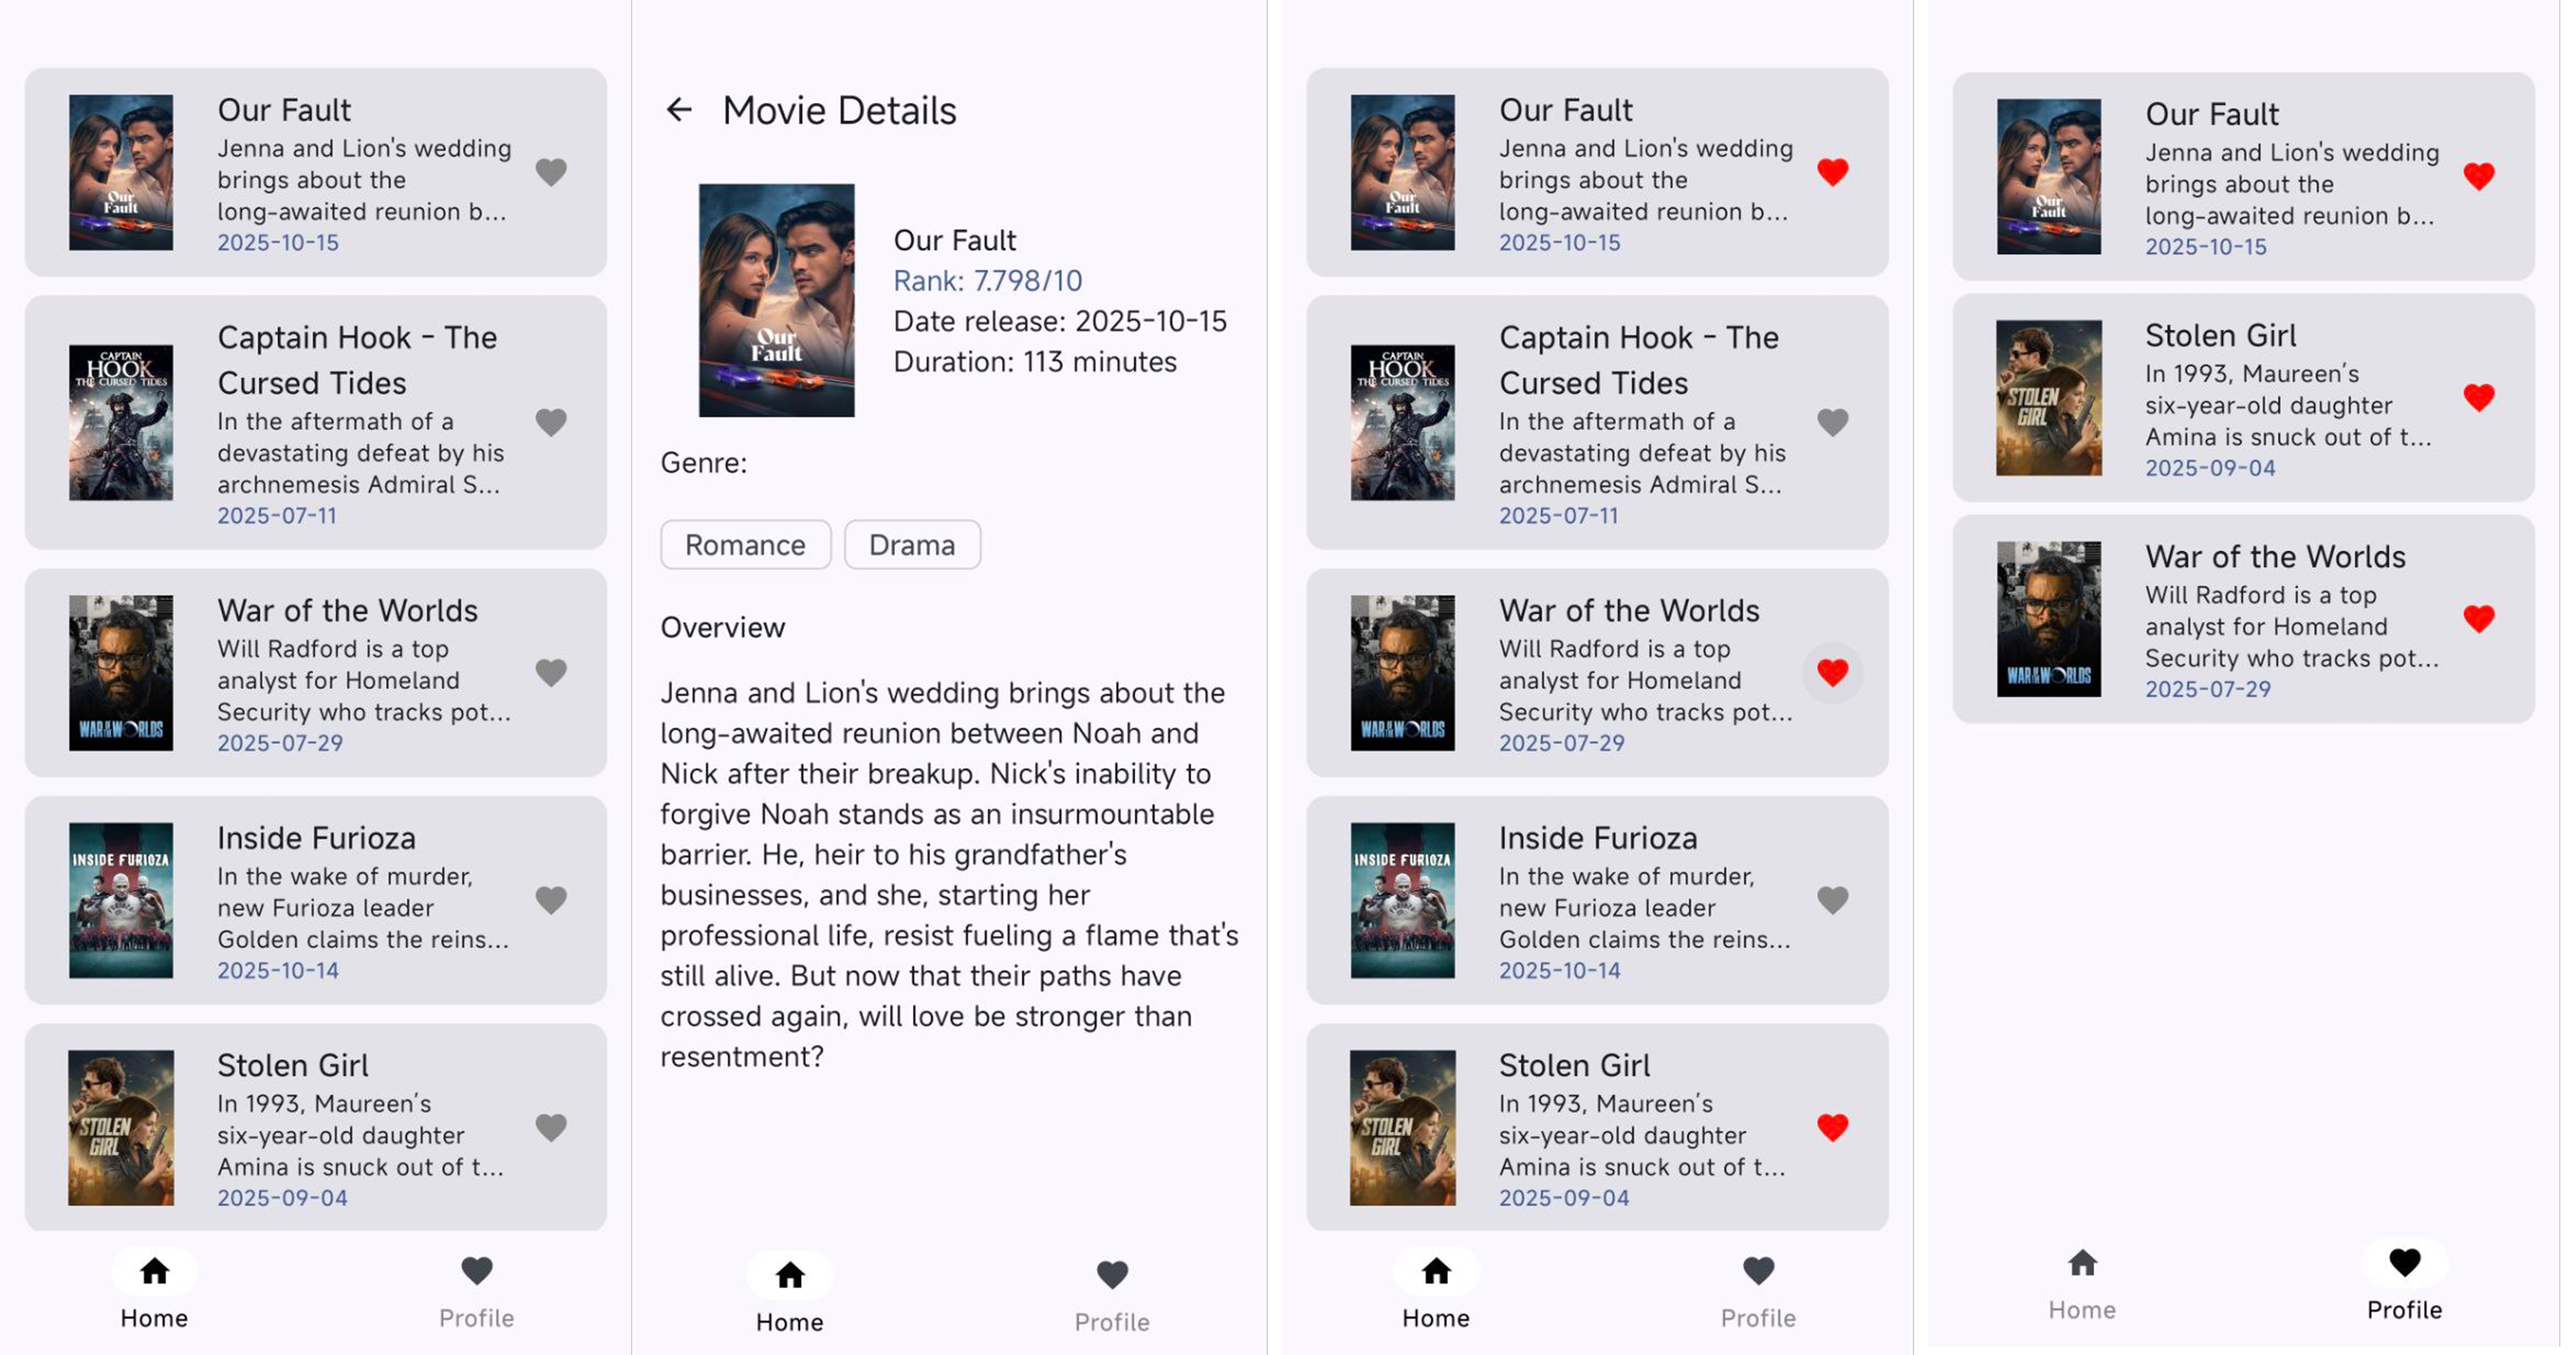
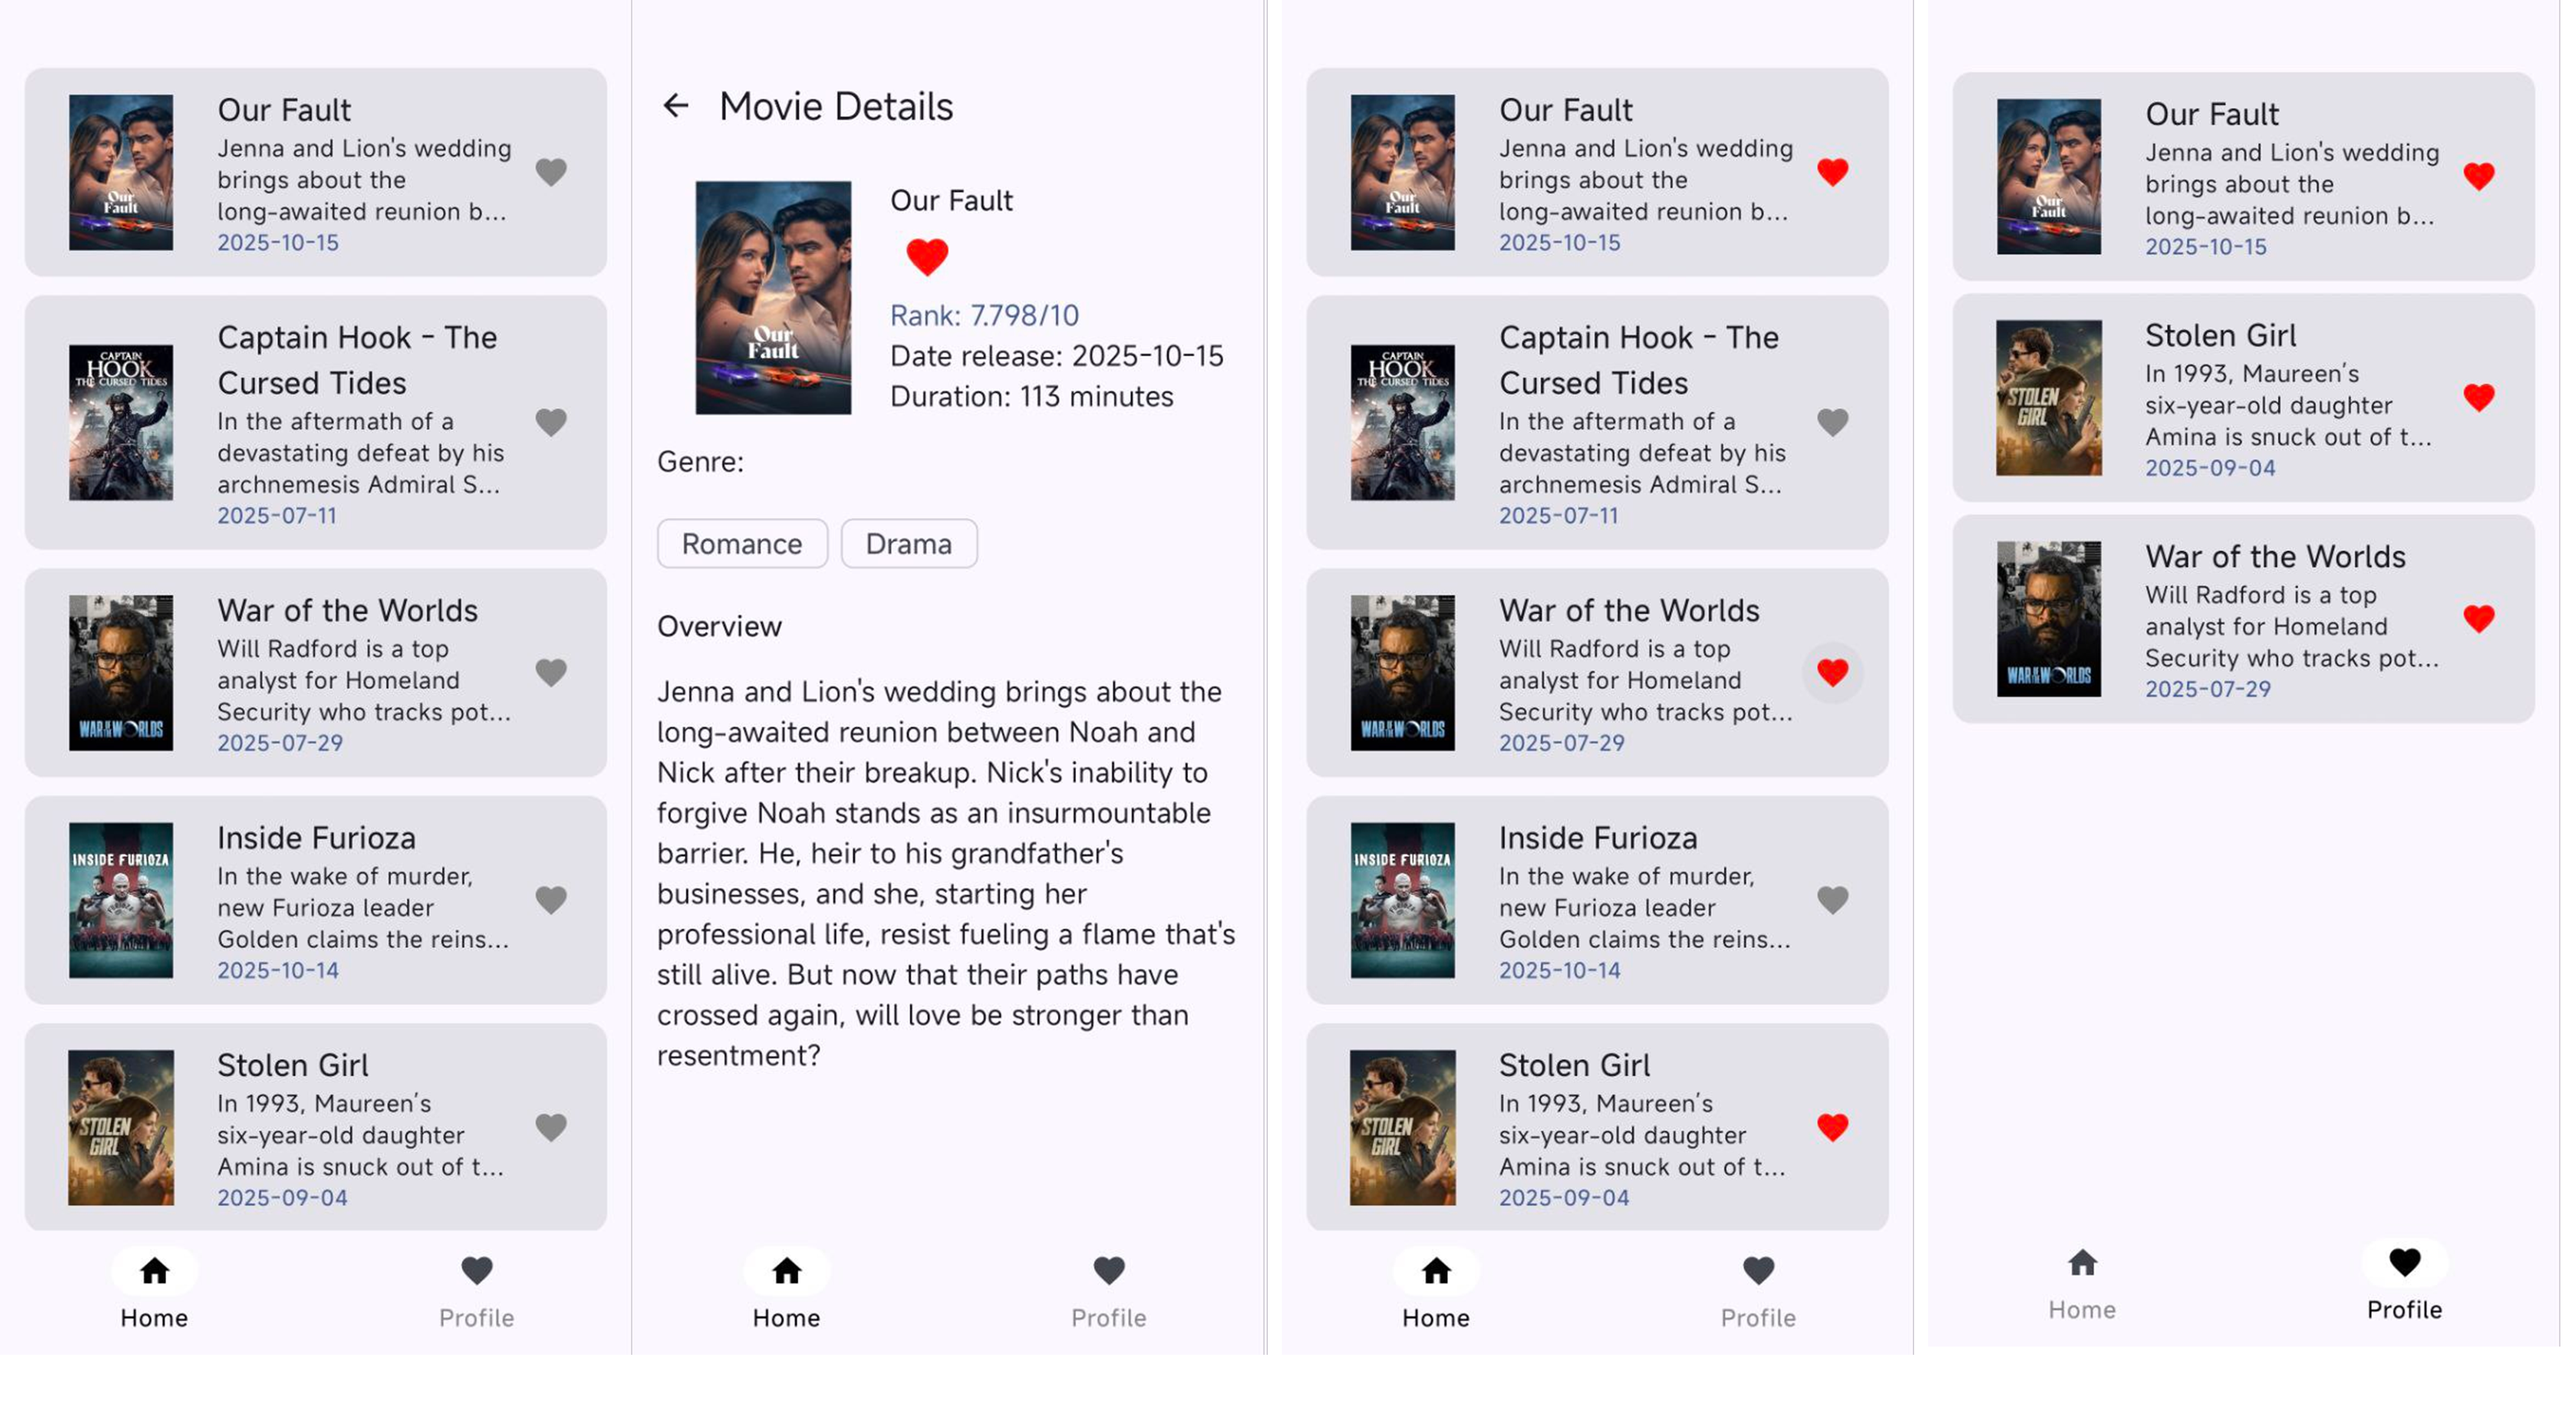
refactor: Improve navigation and clean up codebase
This commit introduces several refactoring and cleanup improvements across the application.

Changes include:
- Renamed the Room database from "favorite_movies" to "app_database" for better generality.
- Converted the `Screen` enum to a sealed class to create type-safe navigation routes, especially for routes with arguments like `DETAILS`.
- Updated `MovieScreen` to use the new type-safe route creation for navigating to movie details.
- Cleaned up the `DetailsScreen` layout by removing unnecessary code and a conditional check for the movie runtime.
- Changed the tint of the favorite icon in `DetailsScreen` to Red/Gray for better visual feedback.
- Corrected the label for the "Favorite" tab in the `BottomNavigationBar` from "Profile".
- Removed the unused `updateFavorite` method from `FavoriteMovieDao` and the singleton companion object from `AppDatabase`.

diff --git a/app/src/main/java/android/rest/api/themoviedbapi/ui/theme/screens/details/DetailsScreen.kt b/app/src/main/java/android/rest/api/themoviedbapi/ui/theme/screens/details/DetailsScreen.kt
@@ -43,7 +43,7 @@ fun DetailsScreen(
     navController: NavController,
     movieId: Int,
 
-) {
+    ) {
     val viewModel: MovieViewModel = hiltViewModel()
     LaunchedEffect(movieId) {
         viewModel.loadMovieDetails(movieId)
@@ -73,7 +73,6 @@ fun DetailsScreen(
                     .padding(16.dp),
                 verticalArrangement = Arrangement.spacedBy(16.dp)
             ) {
-
                 Row(verticalAlignment = Alignment.CenterVertically) {
                     AsyncImage(
                         model = ImageRequest.Builder(LocalContext.current)
@@ -96,7 +95,7 @@ fun DetailsScreen(
                             Icon(
                                 imageVector = if (isFavorite) Icons.Filled.Favorite else Icons.Default.FavoriteBorder,
                                 contentDescription = null,
-                                tint = if (isFavorite) MaterialTheme.colorScheme.primary else MaterialTheme.colorScheme.onSurface,
+                                tint = if (isFavorite) Color.Red else Color.Gray,
                                 modifier = Modifier.size(32.dp)
                             )
                         }
@@ -109,12 +108,10 @@ fun DetailsScreen(
                             "Date release: ${details.releaseDate}",
                             style = MaterialTheme.typography.bodyMedium,
                         )
-                        if (details.runtime != null) {
-                            Text(
-                                "Duration: ${details.runtime} minutes",
-                                style = MaterialTheme.typography.bodyMedium,
-                            )
-                        }
+                        Text(
+                            "Duration: ${details.runtime} minutes",
+                            style = MaterialTheme.typography.bodyMedium,
+                        )
                     }
                 }
                 Text(
@@ -139,8 +136,6 @@ fun DetailsScreen(
                     text = details.overview,
                     style = MaterialTheme.typography.bodyMedium,
                 )
-
-
             }
         } ?: run {
             Box(

diff --git a/app/src/main/java/android/rest/api/themoviedbapi/ui/theme/screens/home/MovieScreen.kt b/app/src/main/java/android/rest/api/themoviedbapi/ui/theme/screens/home/MovieScreen.kt
@@ -2,6 +2,7 @@ package android.rest.api.themoviedbapi.ui.theme.screens.home
 
 import android.rest.api.themoviedbapi.ui.theme.screens.home.MovieViewModel
 import android.rest.api.themoviedbapi.ui.theme.components.MovieCard
+import android.rest.api.themoviedbapi.ui.theme.navigation.Screen
 import androidx.compose.foundation.layout.Arrangement
 import androidx.compose.foundation.layout.Box
 import androidx.compose.foundation.layout.PaddingValues
@@ -53,7 +54,9 @@ fun MovieScreen(navController: NavController) {
                 items(movies) { movie ->
                     MovieCard(
                         movie = movie,
-                        onMovieClick = { navController.navigate("details/${movie.id}") },
+                        onMovieClick = {
+                            navController.navigate(Screen.DETAILS.createRoute(movie.id))
+                        },
                         onFavoriteClick = { viewModel.toggleFavorite(movie.id) }
                     )
                 }

diff --git a/app/src/main/java/android/rest/api/themoviedbapi/data/local/dao/AppDatabase.kt b/app/src/main/java/android/rest/api/themoviedbapi/data/local/dao/AppDatabase.kt
@@ -15,21 +15,4 @@ import androidx.room.RoomDatabase
 )
 abstract class AppDatabase : RoomDatabase() {
     abstract fun favoriteMovieDao(): FavoriteMovieDao
-
-    companion object {
-        @Volatile
-        private var INSTANCE: AppDatabase? = null
-
-        fun getDatabase(context: Context): AppDatabase {
-            return INSTANCE ?: synchronized(this) {
-                val instance = Room.databaseBuilder(
-                    context.applicationContext,
-                    AppDatabase::class.java,
-                    "app_database"
-                ).build()
-                INSTANCE = instance
-                instance
-            }
-        }
-    }
 }

diff --git a/app/src/main/java/android/rest/api/themoviedbapi/ui/theme/navigation/Screen.kt b/app/src/main/java/android/rest/api/themoviedbapi/ui/theme/navigation/Screen.kt
@@ -1,9 +1,10 @@
 package android.rest.api.themoviedbapi.ui.theme.navigation
 
-enum class Screen(val route: String) {
-    HOME("home"),
-    FAVORITE("favorite"),
-    DETAILS("details/{movieId}") {
+sealed class Screen(val route: String) {
+    object HOME : Screen("home")
+    object FAVORITE : Screen("favorite")
+
+    object DETAILS : Screen("details/{movieId}") {
         fun createRoute(movieId: Int) = "details/$movieId"
     }
 }

diff --git a/app/src/main/java/android/rest/api/themoviedbapi/data/local/dao/FavoriteMovieDao.kt b/app/src/main/java/android/rest/api/themoviedbapi/data/local/dao/FavoriteMovieDao.kt
@@ -23,6 +23,4 @@ interface FavoriteMovieDao {
     @Query("SELECT EXISTS(SELECT 1 FROM favorite_movies WHERE id = :movieId)")
     suspend fun isFavorite(movieId: Int): Boolean
 
-    @Query("UPDATE favorite_movies SET isFavorite = :isFavorite WHERE id = :movieId")
-    suspend fun updateFavorite(movieId: Int, isFavorite: Boolean)
 }

diff --git a/app/src/main/java/android/rest/api/themoviedbapi/ui/theme/components/BottomNavigationBar.kt b/app/src/main/java/android/rest/api/themoviedbapi/ui/theme/components/BottomNavigationBar.kt
@@ -36,7 +36,7 @@ import androidx.compose.ui.graphics.Color
                 route = Screen.HOME.route
             ),
             NavigationItem(
-                title = "Profile",
+                title = "Favorite",
                 icon = Icons.Filled.Favorite,
                 route = Screen.FAVORITE.route
             )

diff --git a/app/src/main/java/android/rest/api/themoviedbapi/di/AppModule.kt b/app/src/main/java/android/rest/api/themoviedbapi/di/AppModule.kt
@@ -22,7 +22,7 @@ object AppModule {
         return Room.databaseBuilder(
             context,
             AppDatabase::class.java,
-            "favorite_movies"
+            "app_database"
         ).build()
     }
 
